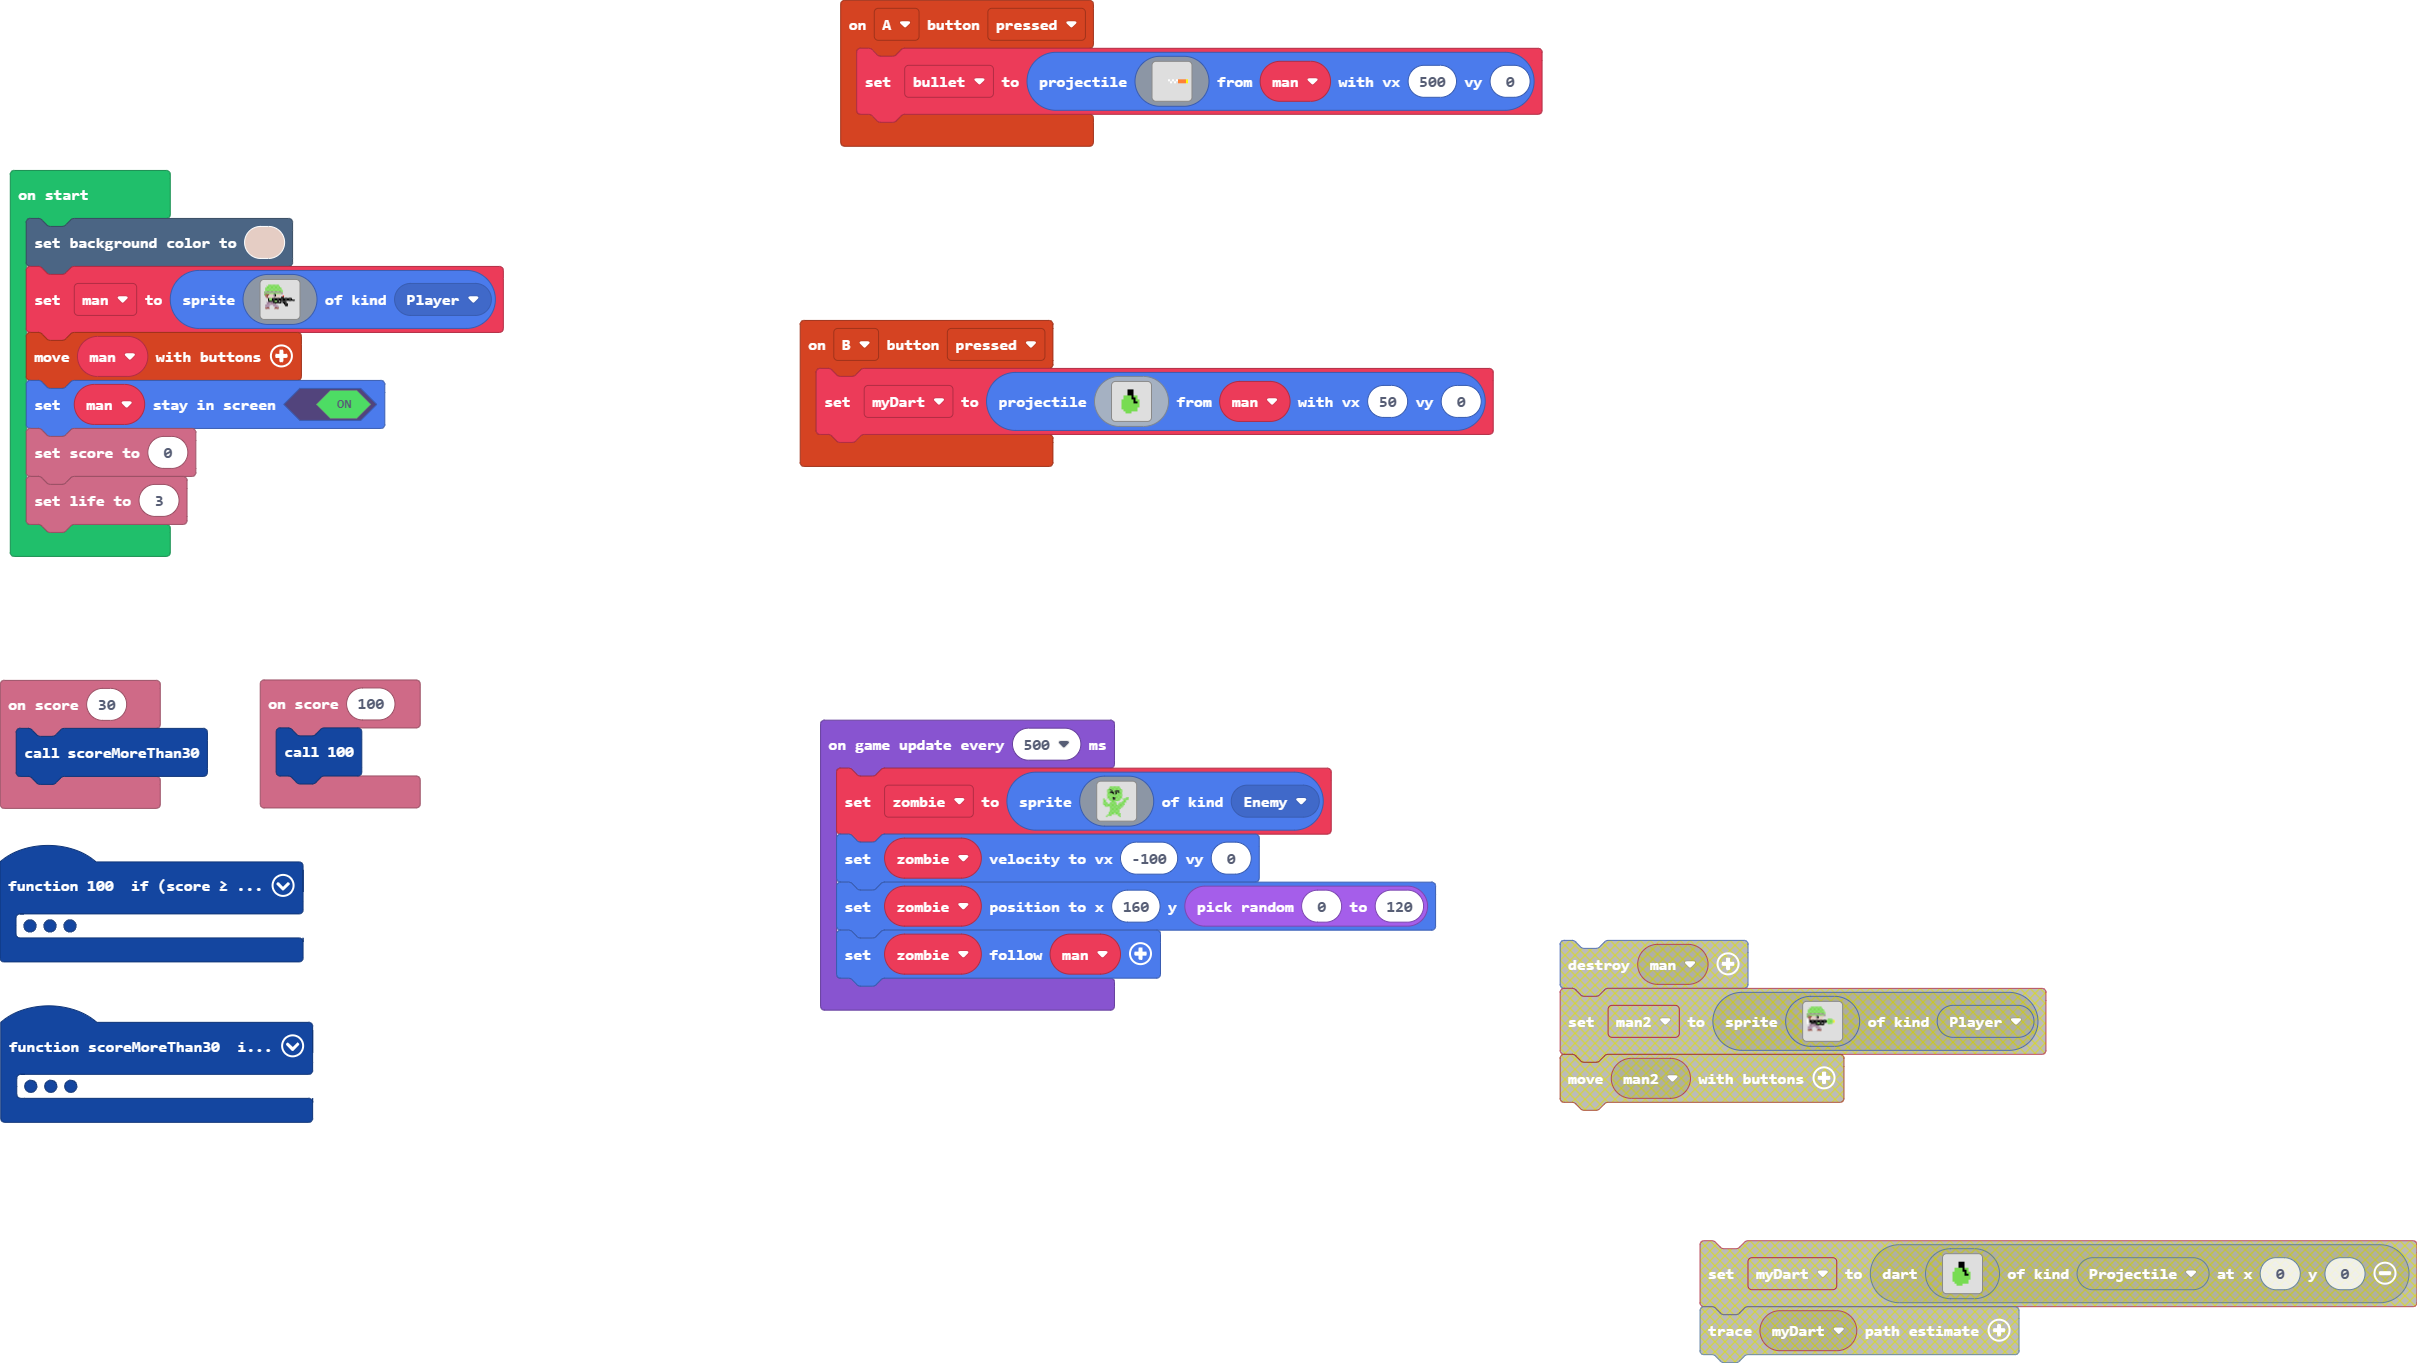
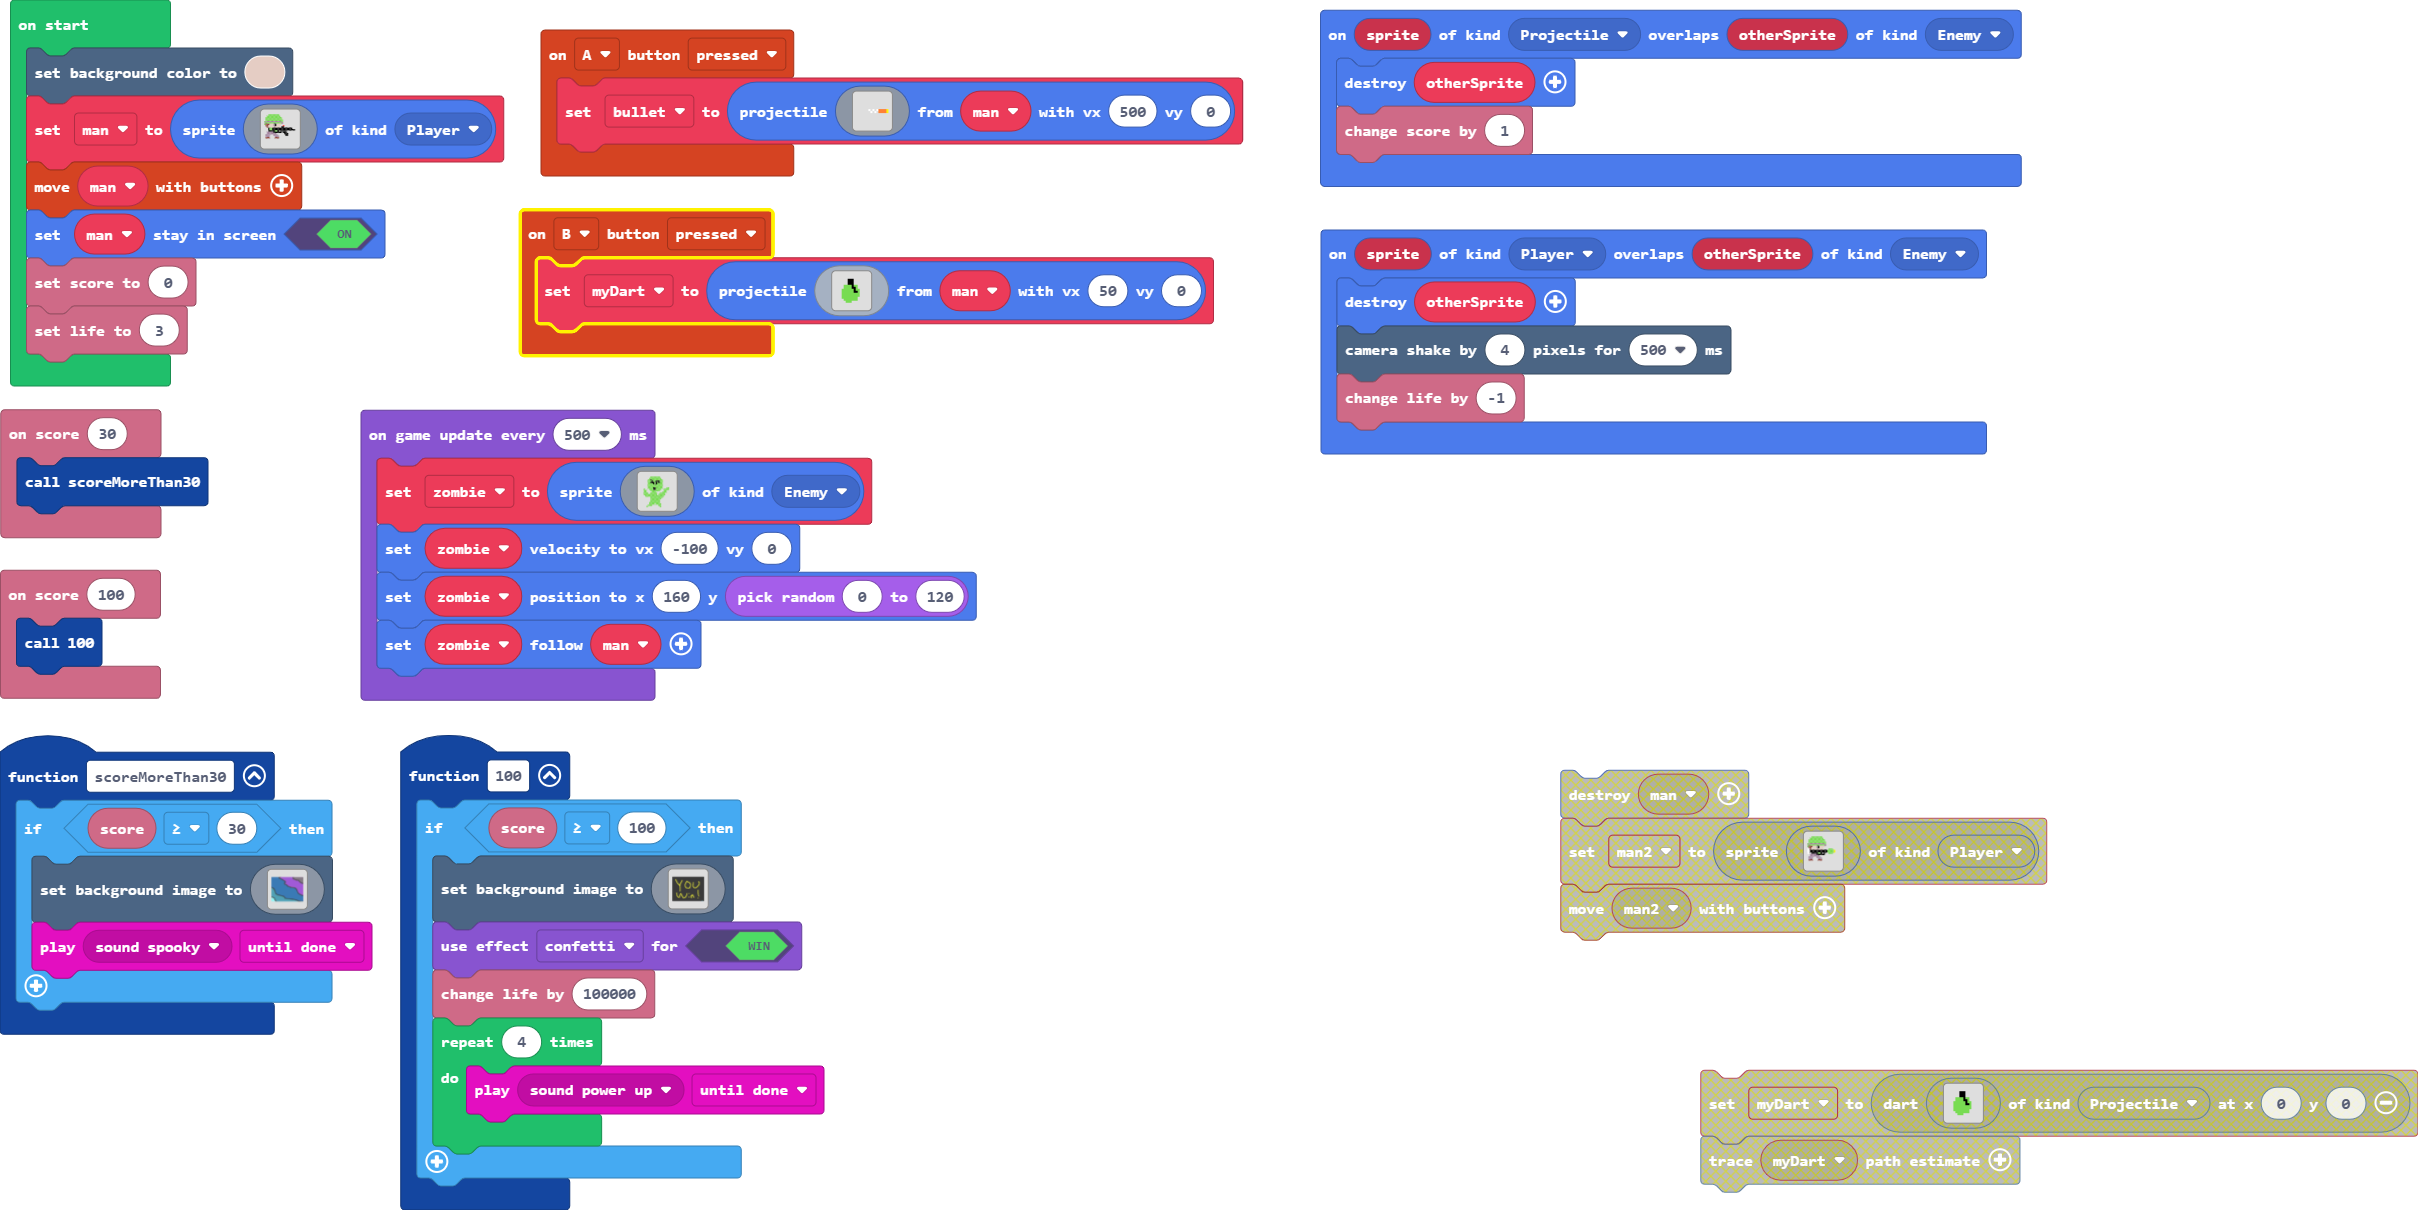
Update main.blocks, main.ts

diff --git a/main.ts b/main.ts
@@ -302,6 +302,15 @@ function scoreMoreThan30 () {
         music.play(music.melodyPlayable(music.spooky), music.PlaybackMode.UntilDone)
     }
 }
+sprites.onOverlap(SpriteKind.Projectile, SpriteKind.Enemy, function (sprite, otherSprite) {
+    sprites.destroy(otherSprite)
+    info.changeScoreBy(1)
+})
+sprites.onOverlap(SpriteKind.Player, SpriteKind.Enemy, function (sprite, otherSprite) {
+    sprites.destroy(otherSprite)
+    scene.cameraShake(4, 500)
+    info.changeLifeBy(-1)
+})
 let zombie: Sprite = null
 let bullet: Sprite = null
 let myDart: Sprite = null
